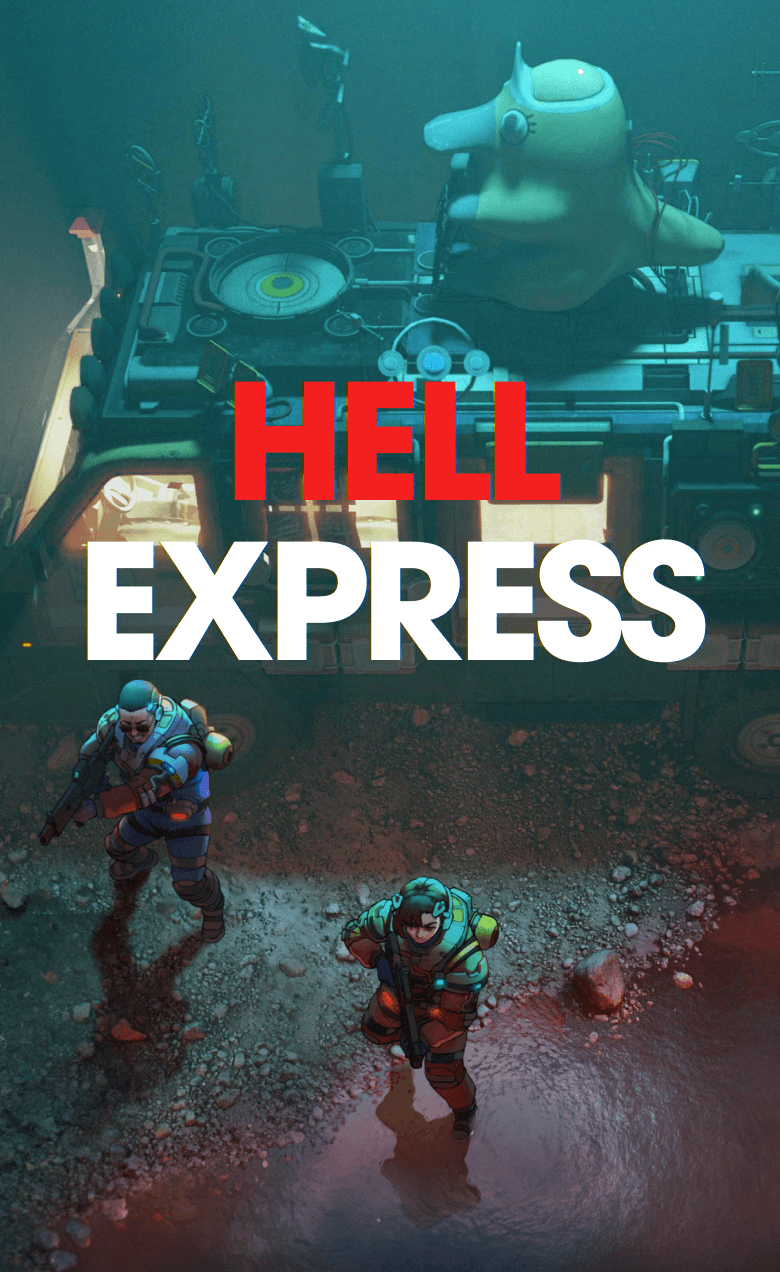
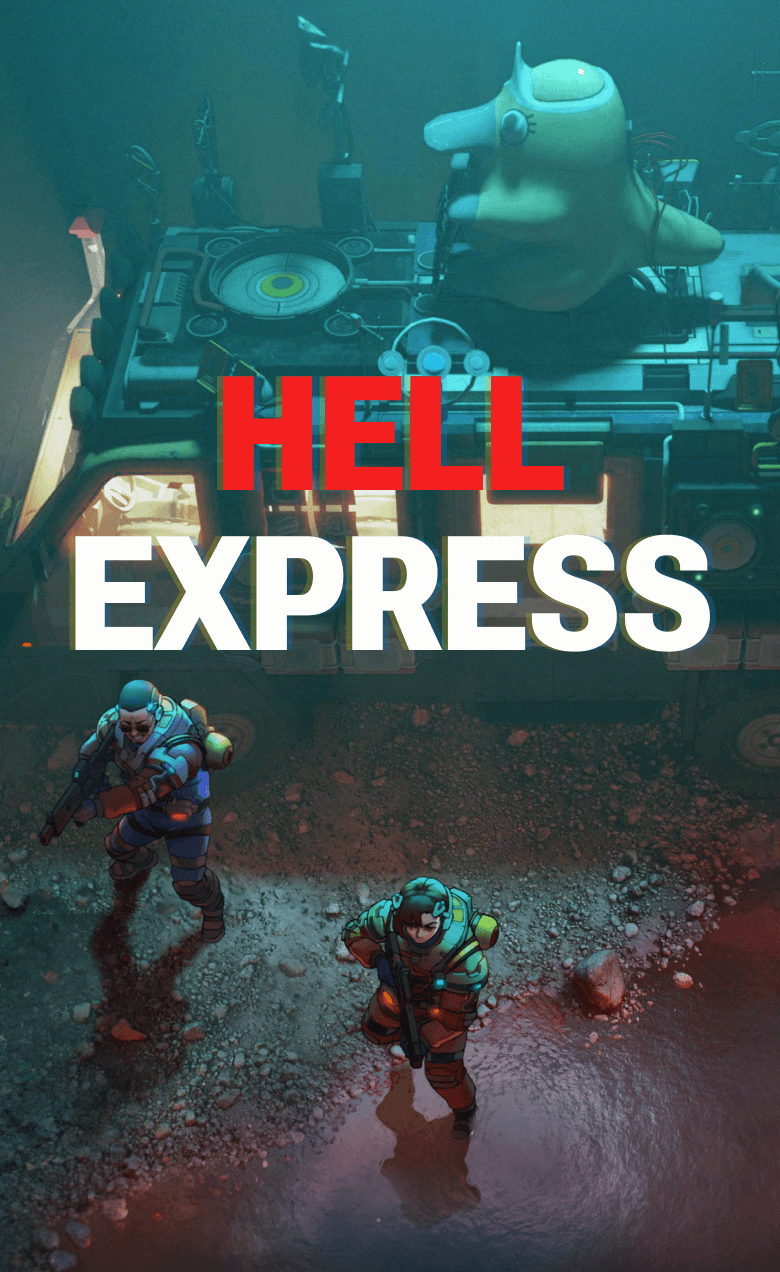
update

Changed region(s): [[0.0923, 0.2759, 0.9231, 0.5212], [0.2462, 0.6132, 0.2769, 0.6439]]

diff --git a/js/detail.js b/js/detail.js
@@ -2,7 +2,7 @@ const getDetailHtml = function() {
     return `
         <div class="title">Privacy Policy</div>
         <p class="paragraph">Effective Date: May 12th, 2024</p>
-        <p class="paragraph">Welcome to the <a href="http://www.fullmetalbagel.com">http://www.fullmetalbagel.com!</a></p>
+        <p class="paragraph">Welcome to the <a href="http://www.fullmetalbagel.com">http://www.fullmetalbagel.com</a></p>
         <p class="paragraph">This privacy policy (“Privacy Policy”) applies to the http://www.fullmetalbagel.com website (the “Website”) as well as the several Fullmetalbagel published games, applications, and software that link to or reference this Privacy Policy (the “Games”, and collectively, the “Services”). The Services are provided and controlled by ELECTRIC DOLPHINS LIMITED, whose registered address is at UNIT A1 OF UNIT A 11/F SUCCESS COMM BLDG 245-251 HENNESSY RD HK (“we” or “us”). If you use products or services operated by ELECTRIC DOLPHINS LIMITED or its affiliates, and you would like to understand how data is processed, you will need to review the privacy policy for that particular product or service. This Privacy Policy similarly does not apply to other products or services which may otherwise make API calls using, or be accessible via, a <a href="http://www.fullmetalbagel.com">http://www.fullmetalbagel.com</a> subdomain.</p>
         <p class="paragraph">1.What Information We Collect</p>
         <p class="paragraph">We collect certain information when you visit the Website or choose to interact with us. More information about the categories and sources of information is provided below. In this Privacy Policy, “personal information” means any information relating to an identified or identifiable individual. This may include, for example, your name, home address and email address. It may also include more technical information, such as your IP address, browser settings and device identifiers, but only when this information can identify you as an individual.</p>

diff --git a/mobile.html b/mobile.html
@@ -67,7 +67,7 @@
                 <!-- <span class="hell red">HELL</span>
                 <br />
                 <span class="express">EXPRESS</span> -->
-                <img class="hell-express-img" src="./img/webp/HELL EXPRESS.png" alt="">
+                <img class="hell-express-img" src="./img/webp/HELL EXPRESS@2x.png" alt="">
             </div>
             <div class="follow-block">
                 <span class="follow-text">FOLLOW US NOW</span>

diff --git a/index.html b/index.html
@@ -86,7 +86,7 @@
             <div class="follow-btn red">SUBSCRIBE</div>
         </div>
     </section>
-    <section id="aboutus" class="section-wrap section-p3">
+    <section id="aboutus" class="section-wrap section-p3"> 
         <!-- <img class="section-img" src="./img/p3.png" alt="" srcset=""> -->
         <picture>
             <source srcset="./img/webp/p3.webp">
